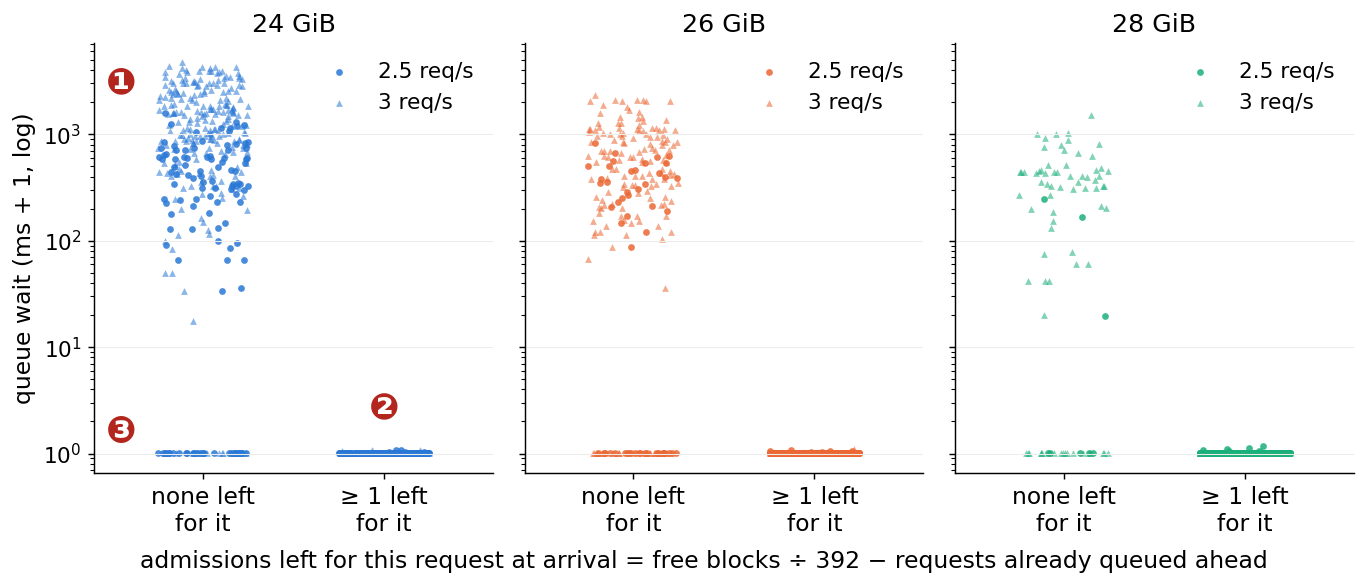
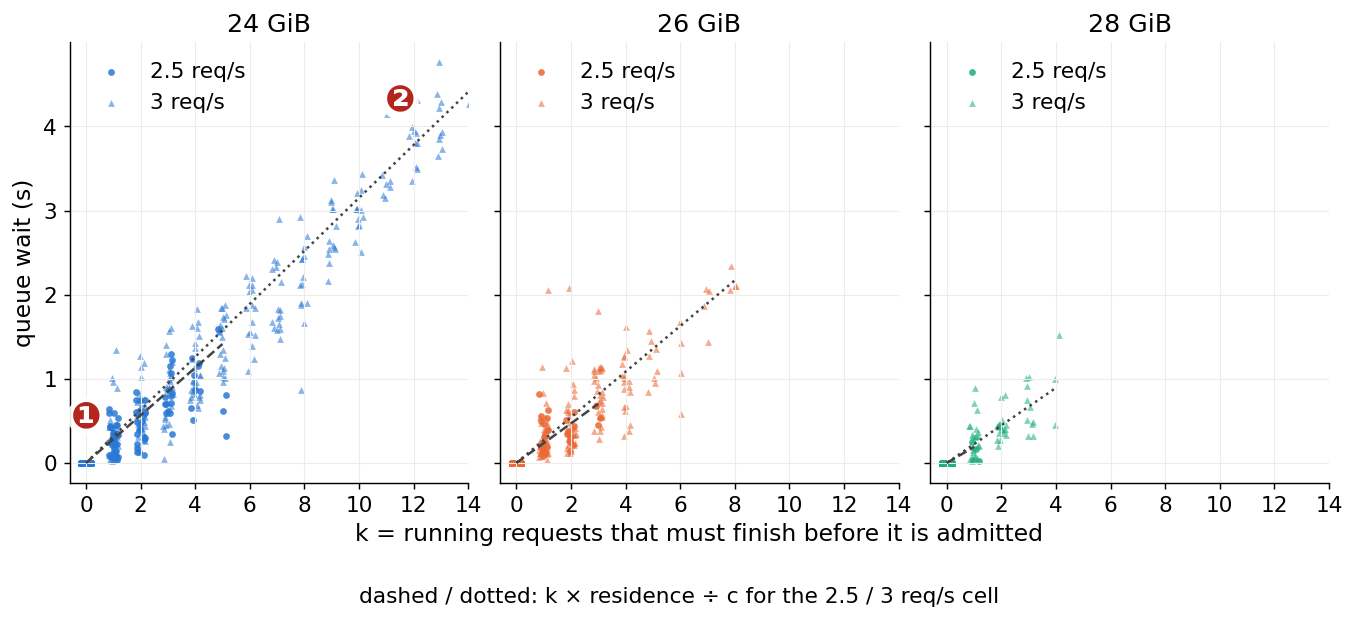
Wait scatter: x = k (requests that must finish first; trace waiting count includes the request itself), wait ~ k x residence/c; report §4.2 and slide

diff --git a/scripts/plots/plot_kv_grid.py b/scripts/plots/plot_kv_grid.py
@@ -20,6 +20,7 @@ from pathlib import Path
 import matplotlib
 matplotlib.use("Agg")
 import matplotlib.pyplot as plt
+import matplotlib.ticker
 import numpy as np
 from matplotlib import cm
 from matplotlib.colors import LogNorm
@@ -218,35 +219,39 @@ def fig_mgc():
 
 # ------------------------------------------------------------------ scatter
 def fig_scatter():
+    """x = k = running requests that must finish before this one is admitted: requests
+    queued ahead of it (the trace's waiting count includes the request itself) minus the
+    free admissions (free blocks // 392), floored at 0. Prediction: k x (residence / c)."""
     fig, axes = plt.subplots(1, 3, figsize=(16, 4.8), sharey=True)
     rng = np.random.default_rng(0)
+    C = {24: 10, 26: 12, 28: 15}
     for ax, b in zip(axes, BUDGETS):
         rates = (2.0, 2.5) if METHOD == "base" else (2.5, 3.0)   # where waiting starts
-        for q, mk, al in ((rates[0], "o", 0.85), (rates[1], "^", 0.55)):
+        for q, mk, al, ls in ((rates[0], "o", 0.85, "--"), (rates[1], "^", 0.55, ":")):
             p = TL / f"kv_{METHOD}_b{b:g}_q{q:g}_tr_r2_req.csv"
             if not p.exists():
                 p = TL / f"kv_{METHOD}_b{b:g}_q{q:g}_tr_req.csv"
             if not p.exists():
                 continue
-            rq = [r for r in csv.DictReader(open(p)) if r.get("wait")]
-            # admissions left for THIS request: free admissions at arrival minus requests
-            # already waiting ahead of it (FCFS: they take the free blocks first)
-            fs = np.array([int(r["free_at_arr"]) // 392 - int(float(r["wait_at_arr"])) for r in rq])
+            rq = [r for r in csv.DictReader(open(p)) if r.get("wait") and r.get("resident")]
+            k = np.array([max(0, int(float(r["wait_at_arr"])) - int(r["free_at_arr"]) // 392) for r in rq])
             w = np.array([float(r["wait"]) for r in rq])
-            print(f"  {p.name}: waited > 20 ms with >= 1 admission left: {int(((fs >= 1) & (w > 0.02)).sum())}; "
-                  f"waited 0 with none left: {int(((fs < 1) & (w < 0.002)).sum())}")
-            ax.scatter(fs + rng.uniform(-0.15, 0.15, len(fs)), w * 1000 + 1, s=16, marker=mk,
-                       color=C_B[b], alpha=al, lw=0, label=f"{q:g} req/s")
-        ax.axvline(0.5, color="#b3261e", lw=1, ls="--")
-        ax.text(0.62, 3, "one admission\nleft for it", color="#b3261e", fontsize=8.5, va="bottom")
-        ax.set_yscale("log")
-        ax.set_xlabel("admissions left for it at arrival\n(free ÷ 392 blocks − requests queued ahead)")
+            gap = np.mean([float(r["resident"]) for r in rq]) / C[b]
+            print(f"  {p.name}: k=0 {int((k == 0).sum())} (max wait {w[k == 0].max() * 1e3:.1f} ms), "
+                  f"k>=1 {int((k >= 1).sum())} (min wait {w[k >= 1].min() * 1e3 if (k >= 1).any() else 0:.0f} ms)")
+            ax.scatter(k + rng.uniform(-0.18, 0.18, len(k)), w, s=16, marker=mk, color=C_B[b], alpha=al, lw=0,
+                       label=f"{q:g} req/s")
+            kk = np.arange(0, max(k.max(), 1) + 1)
+            ax.plot(kk, kk * gap, ls, color="#444", lw=1.2,
+                    label=f"k × residence ÷ c ({gap:.2f} s)")
+        ax.set_xlabel("k = requests that must finish first")
+        ax.xaxis.set_major_locator(matplotlib.ticker.MaxNLocator(integer=True))
         ax.set_title(f"{b} GiB ({SLOTS[b]})")
         ax.grid(color="#ececea", lw=0.6)
         ax.spines[["top", "right"]].set_visible(False)
-        ax.legend(frameon=False, loc="upper right")
-    axes[0].set_ylabel("this request's decode queue wait (ms + 1, log)")
-    fig.suptitle("A request waits exactly when the requests ahead of it use up the free admissions "
+        ax.legend(frameon=False, loc="upper left", fontsize=9)
+    axes[0].set_ylabel("this request's decode queue wait (s)")
+    fig.suptitle("A request's wait = the slots that must free before its turn × the time between frees "
                  "(each dot = one request)", y=1.02)
     fig.savefig(FIGS / "kv_wait_vs_free.png", dpi=150, bbox_inches="tight")
     plt.close(fig)

diff --git a/scripts/plots/plot_slides.py b/scripts/plots/plot_slides.py
@@ -608,33 +608,33 @@ def fig_mgc_s():
 def fig_waitfree_s():
     tl = REPO / "output" / "kv_vram" / "timeline"
     rng = np.random.default_rng(0)
-    fig, axes = plt.subplots(1, 3, figsize=(12.5, 4.3), sharey=True, gridspec_kw={"wspace": 0.08})
+    C = {24: 10, 26: 12, 28: 15}
+    fig, axes = plt.subplots(1, 3, figsize=(12.5, 4.4), sharey=True, gridspec_kw={"wspace": 0.08})
     for ax, b in zip(axes, BUD):
-        for q, mk, al in ((2.5, "o", 0.85), (3.0, "^", 0.55)):
+        for q, mk, al, ls in ((2.5, "o", 0.85, "--"), (3.0, "^", 0.55, ":")):
             p = tl / f"kv_cops_b{b}_q{q:g}_tr_r2_req.csv"
             if not p.exists():
                 p = tl / f"kv_cops_b{b}_q{q:g}_tr_req.csv"
-            rq = [r for r in csv.DictReader(open(p)) if r.get("wait")]
-            x = np.array([int(r["free_at_arr"]) // 392 - int(float(r["wait_at_arr"])) for r in rq])
-            x = np.minimum(x, 1)                          # 0 or fewer = none left; 1 = at least one
-            w = np.array([float(r["wait"]) for r in rq]) * 1e3 + 1
-            ax.scatter(np.where(x >= 1, 1, 0) + rng.uniform(-0.25, 0.25, len(x)), w, s=14, marker=mk,
-                       color=CB[b], alpha=al, lw=0, label=f"{q:g} req/s")
-        ax.set_xticks([0, 1])
-        ax.set_xticklabels(["none left\nfor it", "≥ 1 left\nfor it"], fontsize=13)
-        ax.set_xlim(-0.6, 1.6)
-        ax.set_yscale("log")
+            rq = [r for r in csv.DictReader(open(p)) if r.get("wait") and r.get("resident")]
+            k = np.array([max(0, int(float(r["wait_at_arr"])) - int(r["free_at_arr"]) // 392) for r in rq])
+            w = np.array([float(r["wait"]) for r in rq])
+            gap = np.mean([float(r["resident"]) for r in rq]) / C[b]
+            ax.scatter(k + rng.uniform(-0.18, 0.18, len(k)), w, s=14, marker=mk, color=CB[b], alpha=al, lw=0,
+                       label=f"{q:g} req/s")
+            kk = np.arange(0, max(k.max(), 1) + 1)
+            ax.plot(kk, kk * gap, ls, color="#444", lw=1.4)
         ax.set_title(f"{b} GiB", fontsize=14)
-        ax.legend(frameon=False, fontsize=12, loc="upper right")
-        ax.grid(axis="y", color="#ececea", lw=0.6)
+        ax.set_xlim(-0.6, 14)
+        ax.set_xticks(range(0, 15, 2))
+        ax.legend(frameon=False, fontsize=12, loc="upper left")
+        ax.grid(color="#ececea", lw=0.6)
         ax.spines[["top", "right"]].set_visible(False)
-        ax.tick_params(axis="y", labelsize=12)
-    axes[0].set_ylabel("queue wait (ms + 1, log)", fontsize=13)
-    mbadge(axes[0], -0.45, 3000, 1)
-    mbadge(axes[0], 1.0, 2.6, 2)
-    mbadge(axes[0], -0.45, 1.6, 3)
-    fig.text(0.5, -0.06, "admissions left for this request at arrival = free blocks ÷ 392 − requests already queued ahead",
-             ha="center", fontsize=13)
+        ax.tick_params(labelsize=12)
+    axes[0].set_ylabel("queue wait (s)", fontsize=13)
+    axes[1].set_xlabel("k = running requests that must finish before it is admitted", fontsize=13)
+    mbadge(axes[0], 0.0, 0.55, 1)
+    mbadge(axes[0], 11.5, 4.3, 2)
+    fig.text(0.5, -0.1, "dashed / dotted: k × residence ÷ c for the 2.5 / 3 req/s cell", ha="center", fontsize=12)
     fig.savefig(OUT / "s_waitfree.png", dpi=130, facecolor="white", bbox_inches="tight")
     plt.close(fig)
     print("-> figures/slides/s_waitfree.png")

diff --git a/reports/report_kv_slots.md b/reports/report_kv_slots.md
@@ -156,20 +156,21 @@ request shows up in its *residence* (§4.3).
 
 ![wait vs free space](../figures/kv_wait_vs_free.png)
 
-Per request the rule is exact once the queue is counted. The x axis is the admissions
-left *for this request* at arrival: free blocks ÷ 392, minus the requests already
-waiting ahead of it (first come, first served gives the free blocks to them first).
-- **At least one admission left: no wait.** All 1,133 such requests in the six cells
-  shown waited ≤ 0.2 ms.
-- **None left: it waits** 0.02–5 s, depending on load.
-- A few with none left still waited ~0 ms; for them a slot freed within the same engine
-  step.
+Per request, the rule is exact once the queue is counted. The x axis is **k, the number of
+running requests that must finish before this request is admitted**: the requests already
+waiting ahead of it, minus the admissions the free blocks allow (free ÷ 392), floored at 0.
+First come, first served gives the free blocks to the requests ahead first.
+- **k = 0: no wait.** All 1,258 such requests in the six cells shown waited ≤ 0.2 ms.
+- **k ≥ 1: it waits**, all 542 of them, 17 ms – 4.8 s.
+- **The wait is about k × (residence ÷ c)**, the mean time between two slots freeing,
+  drawn as the dashed / dotted line per cell. At 24 GiB / 3 req/s it holds out to k = 13
+  (4.08 s measured, 4.10 s predicted).
 
-(Correction, 2026-10-26: an earlier version plotted free space alone and attributed the
-waits to the right of the 392-block line to the scheduler being blocked by a load call.
-Every one of those requests had at least as many requests queued ahead of it as there
-were free admissions: 23/23, 20/20, 11/11 and 7/7 at 24 GiB / 3, 26 GiB / 3, 28 GiB / 3
-and 26 GiB / 2.5 req/s.)
+(Corrections, 2026-10-26: an earlier version plotted free space alone and blamed the waits
+next to free blocks on the scheduler being blocked by a load call; every one of them had
+requests queued ahead. A later version plotted "free admissions − requests ahead" and
+explained 125 apparent exceptions as same-step frees; those were an off-by-one: the
+trace's waiting count, taken right after `add_request`, includes the request itself.)
 
 ### 4.3 What the slots cost: the synchronous load stalls the batch
 
